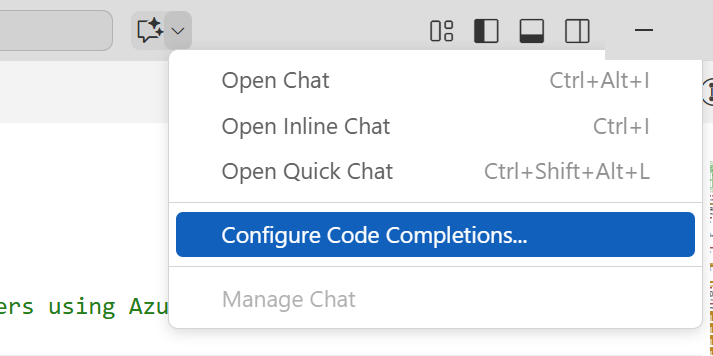
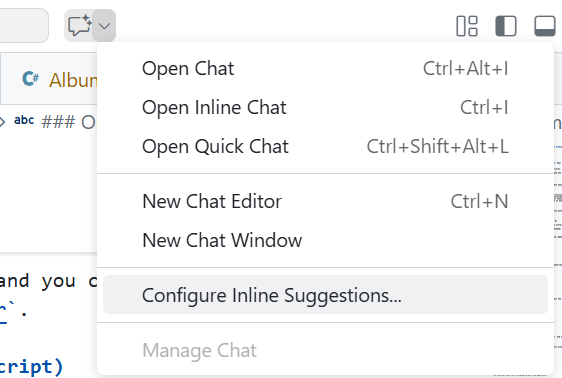
Level 1 updates: - update completions model screenshot - change test framework to vitest to simplify dependencies and follow natural suggestion of vitest given use of vite - minor updates to validator prompts to use names later referred to - add GetAlbumById in Album model to make it easier to add s

diff --git a/docs/workshop.md b/docs/workshop.md
@@ -25,7 +25,7 @@ navigation_numbering: false             # Optional. Enable numbering in the side
 
 # The ultimate GitHub Copilot Tutorial for developers
 
-*Version 1.3 - September 2025*
+*Version 1.4 - November 2025*
 
 The goal of this workshop is to learn how to use GitHub Copilot, using an exercise that consists of building a web server using Nodejs with different functionalities and a .NET Web API. In the second part, you'll learn how to use it for infrastructure as code but also to fix bad practices in terms of security.
 
@@ -33,7 +33,7 @@ GitHub Copilot is an AI-powered code assistant that helps developers write bette
 
 <div class="warning" data-title="warning">
 
-> GitHub Copilot is a quickly evolving product and thus this workshop may not be 100% up to date with the different features of the different extensions you are going to use. Please be clever if it's not exactly the same.
+> GitHub Copilot is a quickly evolving product and thus this workshop may not be 100% up to date with the different features of the various extensions you are going to use. Please be adapatable if it's not exactly the same.
 
 </div>
 
@@ -108,16 +108,8 @@ You first need to install the following tools locally:
 2. Install the [GitHub Copilot](https://marketplace.visualstudio.com/items?itemName=GitHub.copilot) extension
 3. Install the [GitHub Copilot Chat](https://marketplace.visualstudio.com/items?itemName=GitHub.copilot-chat) extension
 4. Install [Node and npm](https://docs.npmjs.com/downloading-and-installing-node-js-and-npm)
-5. Install mocha
-
-    ``` bash
-    npm install --global mocha
-    npm install axios
-    ```
-6. Install [.NET Core](https://dotnet.microsoft.com/download) \* *needed if you want to run provided .net code*
-
-Then, clone your forked repository and open it in VS Code.
-
+5. Install [.NET Core](https://dotnet.microsoft.com/download) \* *needed if you want to run provided .net code*
+6. Clone your forked repository and open it in VS Code:
 ``` bash
 git clone https://github.com/<YourUser>/gh-copilot-demo
 cd gh-copilot-demo
@@ -167,7 +159,7 @@ Once you start typing a prompt and Copilot generate proposals, you can use the f
 
 It's possible to switch from the standard GitHub Copilot completion model, to another one. The completion model has been specifically trained on over 275,000 high-quality public repositories in over 30 popular programming languages, including JavaScript, TypeScript, Python, Java, C#, C++, and many more for better results. However, you are able to switch to another model if your administrator has activated this feature otherwise you may have only the latest one.
 
-In **VS Code** to check the completion model configuration, open the Copilot menu in the VS Code title bar, select `Configure Code Completions...` > `Change Completions Model...`. Alternatively, open the Command Palette and select GitHub Copilot: `Change Completions Model...`
+In **VS Code** to check the completion model configuration, open the Copilot menu in the VS Code title bar, select `Configure Inline Suggestions...` > `Change Completions Model...`. 
 
 ![alt text](assets/cfg-comp-model.png)
 ![alt text](assets/chg-comp-model.png)
@@ -183,29 +175,29 @@ In **VS Code** to check the completion model configuration, open the Copilot men
 ### Write code
 
 **What is a prompt?**
-In the context of Copilot, a prompt is a piece of natural language description that is used to generate code suggestions. It can be a single line or a multiple lines description.
+In the context of Copilot, a prompt is a natural language description used to generate code suggestions. It can be a single line or a multiple line description.
 
 **Generate code from prompt**
 
 Create a new `album-viewer/src/utils/validators.ts` file and try the different following prompts to see the different suggestions:
 
 ```ts
-// validate date from text input in french format and convert it to a date object
+// validate date from text input in french format and convert it to a date object. Name this function `validateDate`.
 ```
 
-Copilot can help you also to write `RegExp patterns`. Try these:
+Copilot can help you also to write Regular Expressions. Try these:
 
 ```ts
 // function that validates the format of a GUID string
 
-// function that validates the format of a IPV6 address string
+// function that validates the format of a IPV6 address string. Name this function `validateIPV6`.
 ```
 
 <br>
 
 **More complex code generation**
 
-In the `albums-api/Controllers/AlbumController.cs` file try to complete the `Get(int id)` method by replace the current return:
+In the `albums-api/Controllers/AlbumController.cs` file try to complete the `Get(int id)` method by replacing the current return:
 
 ```cs
 // GET api/<AlbumController>/5
@@ -219,18 +211,14 @@ public IActionResult Get(int id)
 In the same file you can show other prompts like:
 
 ```cs
-// function that sort albums by name, artist or genre
+// function that sort albums by title, artist or price
 ```
 
 ### Next edit suggestion
 
-*Next edit suggestion* is an evolution of the standard completion in GitHub Copilot. When you are modifying code and accepting a code suggestion, it can have an impact on other part of your code, it will automatically suggest the next change in your code, and not only directly where your pointer is but where your natural next action will probably be.
+*Next edit suggestion* is an evolution of the standard completion in GitHub Copilot. When you are modifying code and accepting a code suggestion, if it can have an impact on another part of your code, it will automatically suggest the next change in your code, and not only directly where your cursor is, but also anticipating where your next edit might be.
 
-An example is better than a thousands words so let's try that!
-
-First, be sure to activate the feature on your Copilot settings. Select the `Preferences: Open User Settings` command in the Command Palette (`Ctrl+Shift+P`) and search for the *Next Edit Suggestions* settings:
-
-![Next Edit Suggestions in settings](assets/nes-setting.png)
+An example is better than a thousands words, so let's try that!
 
 Then, open the `albums-api/Models/Album.cs` file and, on the Album contructor, add a new input parameter `Year` of type `int` and see the Next Edit Suggestion propose to change the body of the method accordingly:
 
@@ -244,46 +232,48 @@ Copilot can help generate all kind of tests that are written with code. It Inclu
 
 - Add a new file `validators.test.ts` in the `albums-viewer/src/utils` alongside the previously created file.
 
-- To have good test suggestion, you should provide some basic informations to Copilot such as the test framework you want to use:
+- To receive a good test suggestion, you should provide some basic information to Copilot, such as the test framework you want to use:
 
 ```ts
 import { describe }
 ```
 
-When you start typing the `describe` function, Copilot will see you're in test file in TS and suggest you to import the `describe` and `it` functions from Mochai which is a famous test framework for JS/TS.
-Accept the suggestion and it will automatically suggest also the `expect` function from Chai: accept it also.
+When you start typing the `describe` function, Copilot will see you are in a TypeScript (*.ts) test file and because the project uses the Vite tool, it will suggest the import of the `describe` and `it` functions from vitest, which is a test framework commonly used with VueJS/Vite applications.
 
 ```ts
-import {describe, it} from 'mocha';
-import {expect} from 'chai';
+import { describe, expect, it } from 'vitest';
 ```
 
-You have your test framework in place! Now just import the functions you want to test by starting a new line by the `import` keyword, Copilot will see you are in a test file, to test some `validators` because of the name and it will suggest something like that:
+You have your test framework in place! 
+
+Copilot may already move on to suggesting the import of validators from the `validators.ts` file because it resides in the same folder. It might suggest something like the following:
 
 ```ts
 import {validateAlbumId} from './validators';
 ```
 
-It looks ok but because Copilot doesn't have access to all your code, only the open tab and limited informations, you can see that both the path and the function name are wrong.
+It looks ok but because Copilot doesn't have access to all your code, only the open tab and limited information, you can see that both the path and the function name are wrong.
 <br>
-... At least he tried ...
+... At least it tried ...
 <br>
-but it's a good way to show that Copilot is not magic and you have to use it with your other IDE feature and your brain :)
+but it's a good way to show that Copilot is not magic and you have to use it with your other IDE features and your brain :)
 
-- Accept the suggestion and change the path. You will be able to have VS Code to give you the available function with the `ctrl+space` shortcut. Import `validateDate`, `validateIPV6`.
+- Start writing `import { validateDate }` and accept the automatic IDE suggestion or use the `ctrl+space` shortcut. 
+
+- Import both `validateDate` and `validateIPV6`.
 
 - Then, add a comment with the first function you want to test and let the magic happen:
 
 ```ts
-import {describe, it} from 'mocha';
-import {expect} from 'chai';
-
-import {validateDate, validateIPV6} from './validators';
+import { describe, expect, it } from 'vitest';
+import { validateDate, validateIPV6 } from './validators';
 
 // test the validateDate function
 ```
 
 Boom!
+
+You should see something like the following (but your test may vary):
 
 ```ts
 describe('validateDate', () => {
